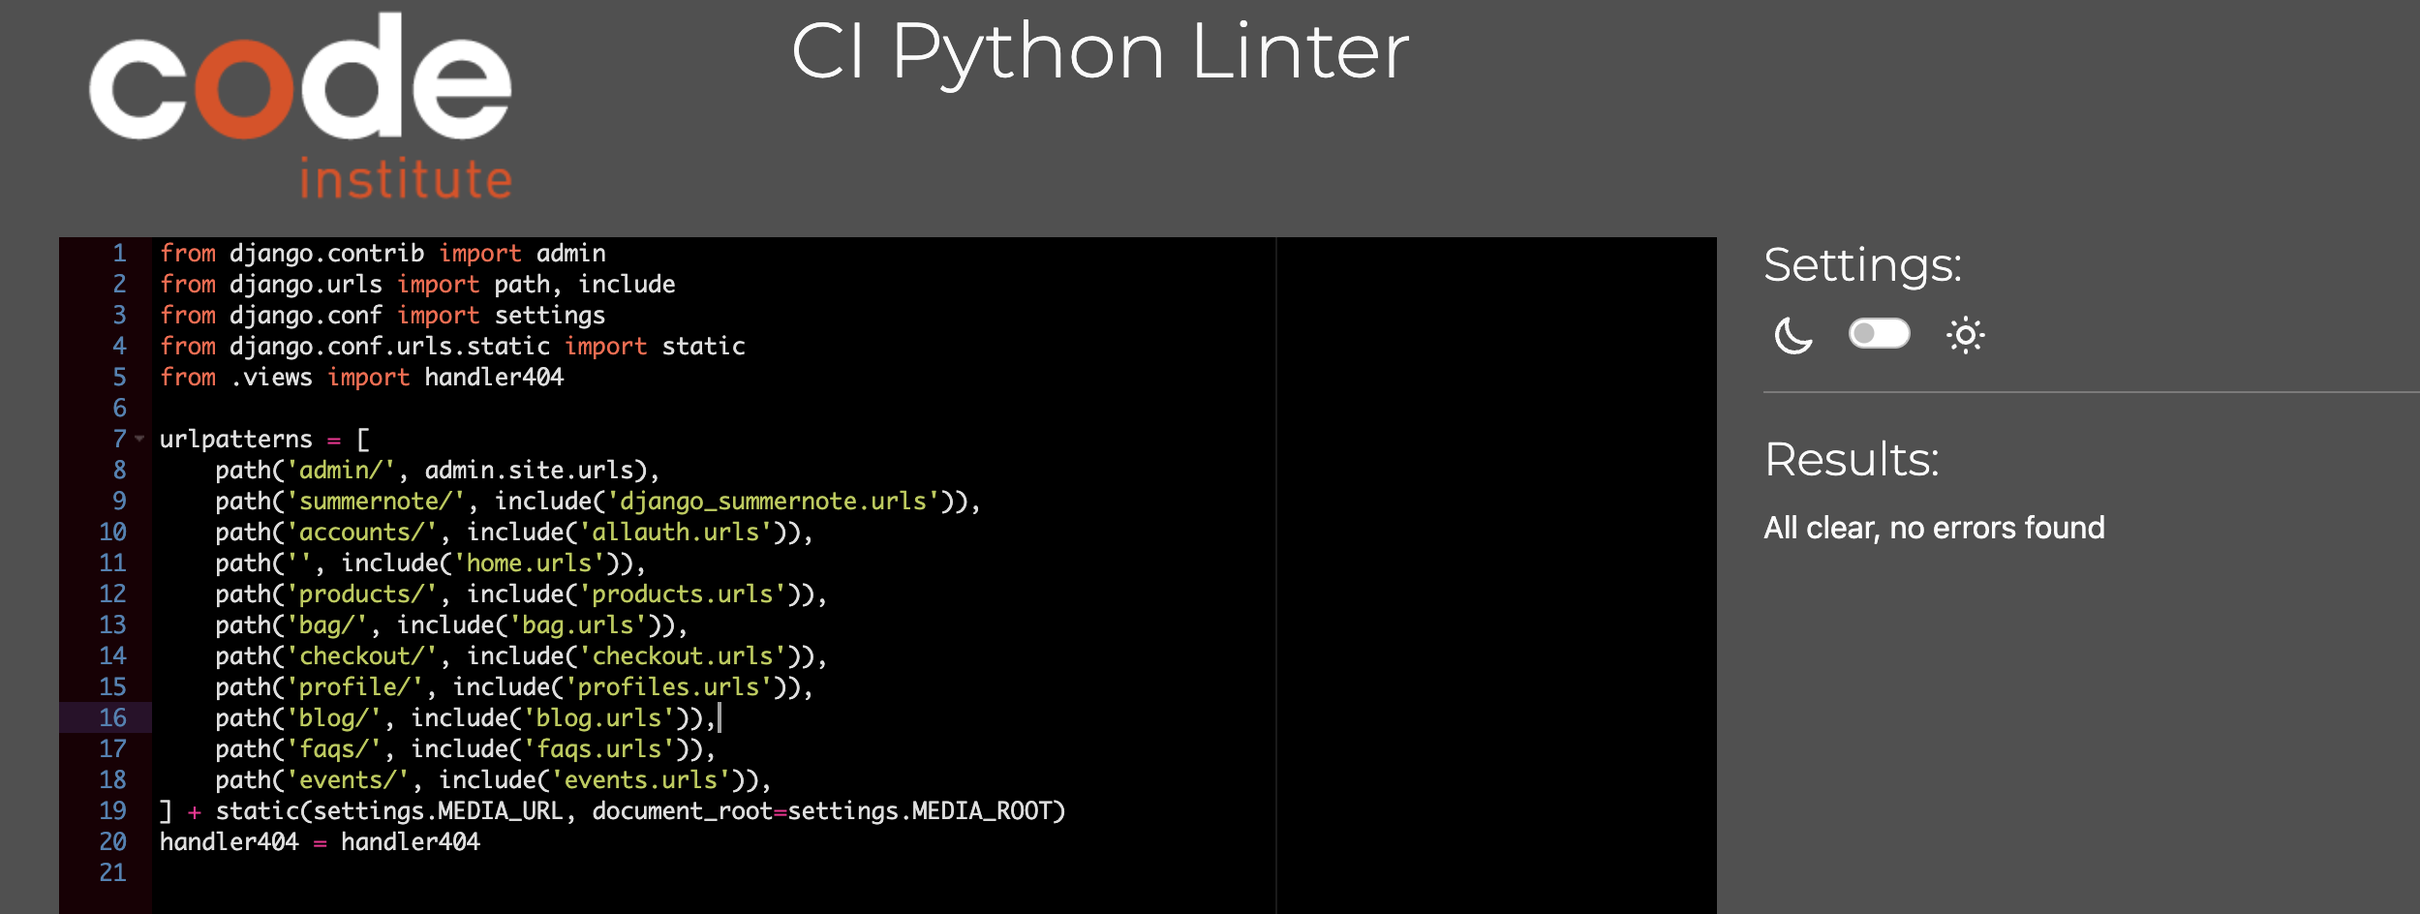
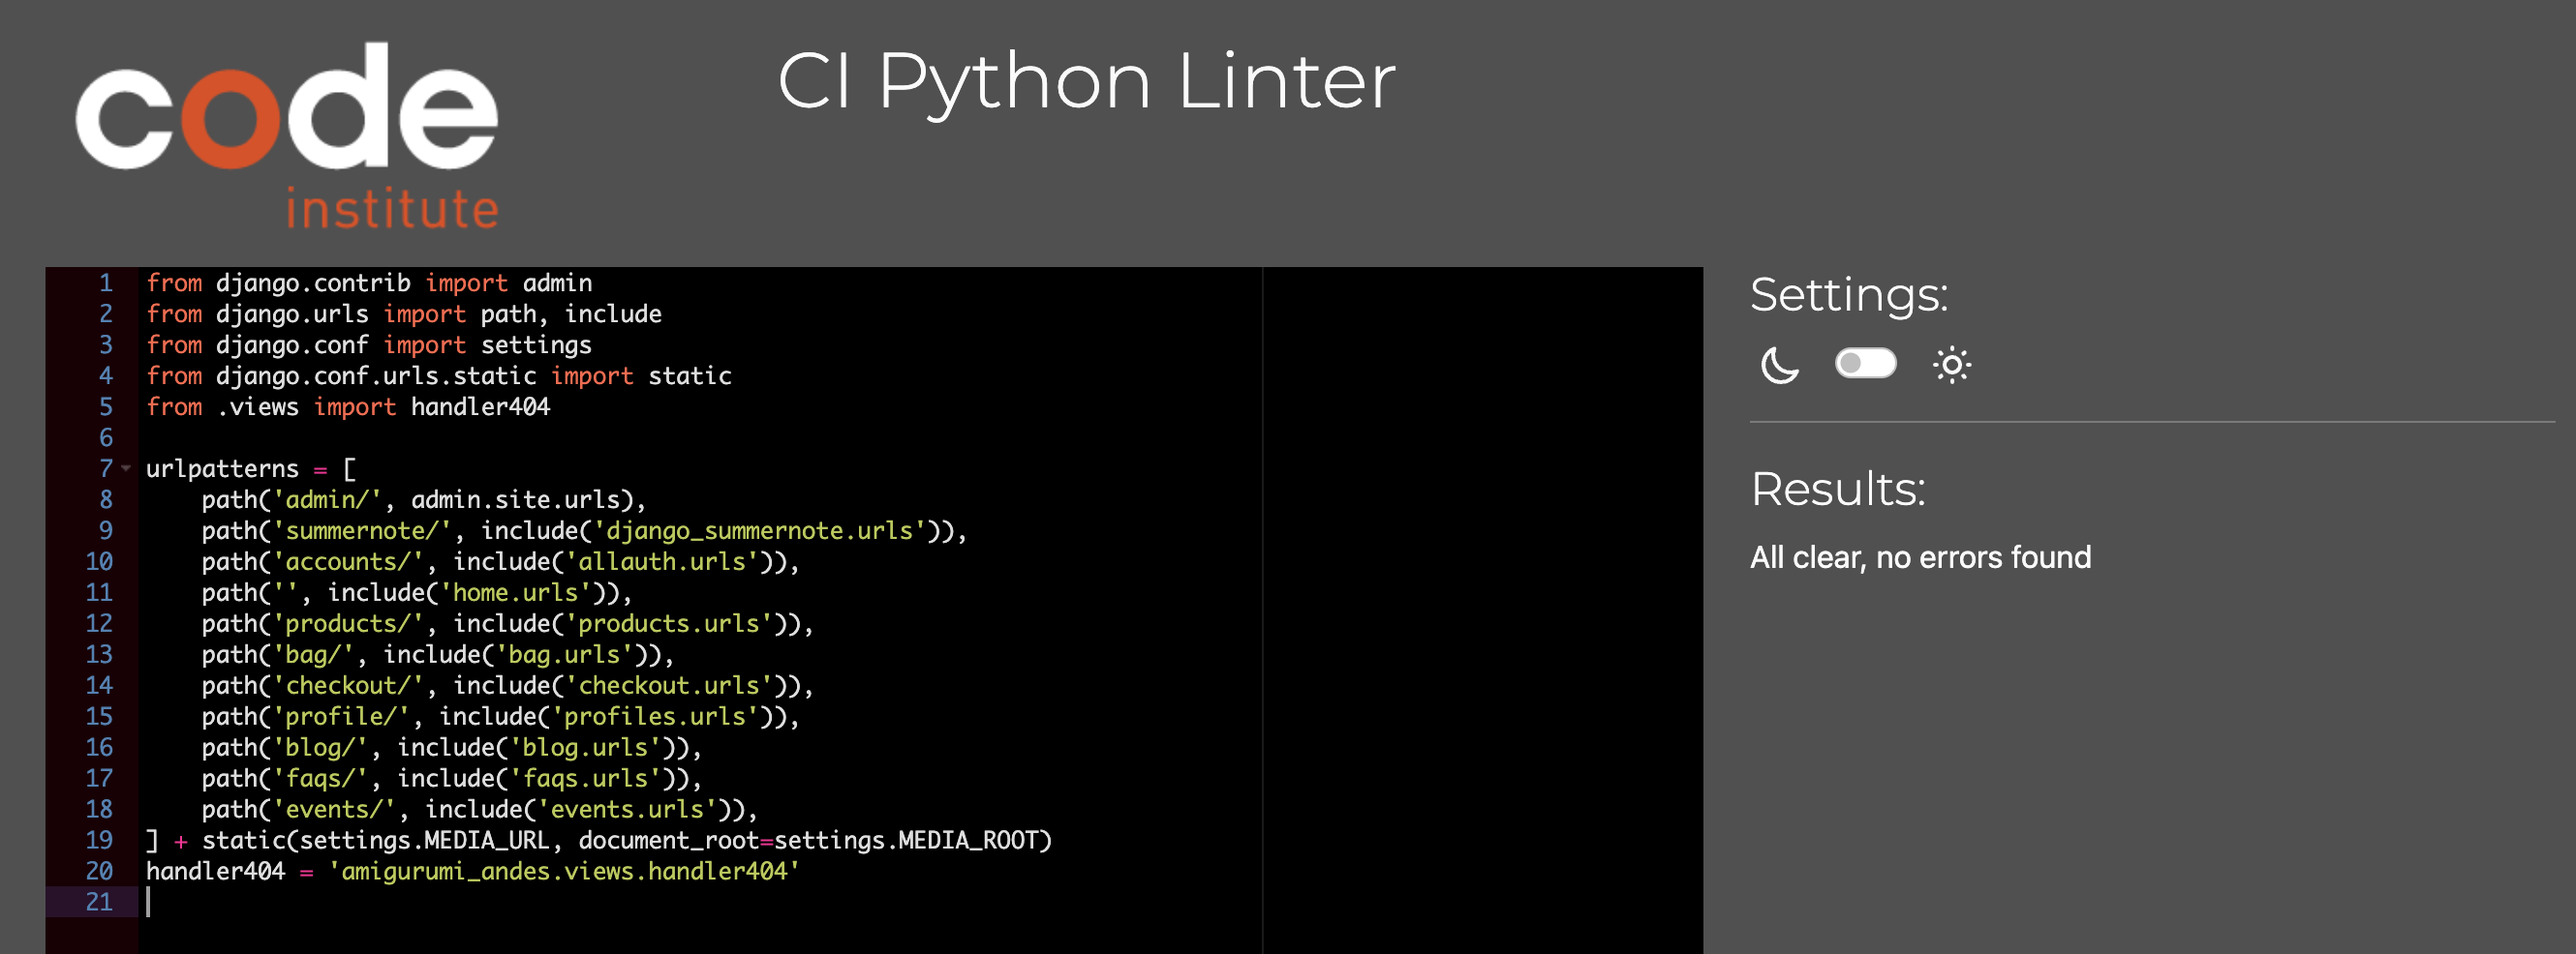
Validate changed pages and fix readme

Changed region(s): [[0.0, 0.0, 0.8739, 1.0], [0.3121, 0.0307, 0.593, 0.1229]]

diff --git a/templates/errors/404.html b/templates/errors/404.html
@@ -36,5 +36,4 @@
         </div>
     </div>
 </div>
-</div>
 {% endblock %}

diff --git a/blog/views.py b/blog/views.py
@@ -39,11 +39,18 @@ class PostCreate(CreateView):
             form.instance.status = 0  # Draft if not superuser
         response = super().form_valid(form)
         if form.instance.status == 1:
-            messages.success(self.request, "You have successfully published the blog post.")
+            messages.success(
+                self.request, "You have successfully published the blog post."
+            )
         elif form.instance.status == 0:
-            messages.success(self.request, "Your blog post is set to draft.")
+            messages.success(
+                self.request, "Your blog post is set to draft."
+            )
         else:
-            messages.success(self.request, "You have created your blog post. It is awaiting approval.")
+            messages.success(
+                self.request,
+                "You have created your blog post. It is awaiting approval."
+            )
         return response
 
 
@@ -59,16 +66,22 @@ class PostUpdate(UserPassesTestMixin, UpdateView):
     def form_valid(self, form):
         response = super().form_valid(form)
         if form.instance.status == 1:
-            messages.success(self.request, "You have updated the blog post to published.")
+            messages.success(
+                self.request, "You have updated the blog post to published."
+            )
         elif form.instance.status == 0:
-            messages.success(self.request, "Your blog post update is set to draft.")
+            messages.success(
+                self.request, "Your blog post update is set to draft."
+            )
         else:
             messages.success(self.request, "You have updated your blog post.")
         return response
 
     def test_func(self):
         post = self.get_object()
-        return self.request.user == post.author or self.request.user.is_superuser
+        return (
+            self.request.user == post.author or self.request.user.is_superuser
+        )
 
 
 @method_decorator(login_required, name='dispatch')
@@ -81,9 +94,13 @@ class PostDelete(UserPassesTestMixin, DeleteView):
 
     def delete(self, request, *args, **kwargs):
         response = super().delete(request, *args, **kwargs)
-        messages.success(request, "You have successfully deleted your blog post.")
+        messages.success(
+            request, "You have successfully deleted your blog post."
+        )
         return response
 
     def test_func(self):
         post = self.get_object()
-        return self.request.user == post.author or self.request.user.is_superuser
+        return (
+            self.request.user == post.author or self.request.user.is_superuser
+        )

diff --git a/checkout/webhook_handler.py b/checkout/webhook_handler.py
@@ -48,12 +48,12 @@ class StripeWH_Handler:
         pid = intent.id
         bag = intent.metadata.bag
         save_info = intent.metadata.save_info
-        
+
         # Get the Charge object
         stripe_charge = stripe.Charge.retrieve(
             intent.latest_charge
             )
-            
+
         billing_details = stripe_charge.billing_details
         shipping_details = intent.shipping
         grand_total = round(stripe_charge.amount / 100, 2)

diff --git a/amigurumi_andes/views.py b/amigurumi_andes/views.py
@@ -1,5 +1,6 @@
 from django.shortcuts import render
 
+
 def handler404(request, exception):
     """ Error Handler 404 - Page Not Found """
     return render(request, "errors/404.html", status=404)

diff --git a/README.md b/README.md
@@ -150,6 +150,9 @@ A system of messages has been implemented to provide feedback for every user's a
 Email confirmations are sent in different occasions: mainly to manage the account registration and also to confirm joining an event. 
 ![Example email](readme_pics/example-email.png)
 
+An email is also sent upon user purchase for confirmation:
+![Example email2](readme_pics/example-email-2.png)
+
 # Database Chart
 
 ![Database 1](readme_pics/database1.png)
@@ -186,31 +189,21 @@ Manual Testing and validation can be found here:
 - The Join event button was causing issues due to the unique_together function used. This prevents a user to sign up for an event more than once. The user can join the event, leave an event and join again, but cannot join more than once if they have already joined and haven't opted out yet. In the beginning, the website was giving an error related to the fact the logged in user could click the "join event" button more than once. To simply fix this issue, I disabled the button once the user has joined (to prevent double click and error).
 - I had issues loading some CSS on the deployed website and also locally. The CSS was loading in different ways in different browsers and in the local and deployed version of the site. I fixed this by cleanening the cache. 
 
-## Unfixed Bugs
-After trying different troubleshooting methods, my 404.html page has still un unfixed bug. The website doesn't find the page and displays a 500 error instead of the 404 page. 
+- After trying different troubleshooting methods, I managed to fix my 404.html page. The page was not found and it created a broken link which was hampering the user experience. A 500 error was previously displayed: 
 
 ![Bug 1](readme_pics/bug1.png)
 ![Bug 2](readme_pics/bug2.png)
 
-These are all the troubleshooting methods I tried:
+Now the 404 page is displaying correctly when a page is not found. I fixed this bug by placing the 404 page in the correct path and thoroughly following the instructions provided by [Code institute](https://learn.codeinstitute.net/courses/course-v1:CodeInstitute+EA101+2/courseware/eb05f06e62c64ac89823cc956fcd8191/0713d55c023943438d418d83caf4171b/) adding a handler404 function, views and urls. handler404 = 'boutique_ado.views.handler404'.
+- Emails where not sent properly upon user purchase. To fix this issue I had to work on the webhook handler. After a Stripe update, the charges attribute is no longer available directly from the payment intent. To get the billing_details I had to update the payment_intent_succeeded method within the StripeWH_Handler class in webhook_handler.py. 
+- I had some issues with defensive design (blog section): any logged in user could edit and delete any blog post by navigating directly to the URL for these, this way users' data is not fully secure in the application. I implemented checks so that only a user who creates a blog post can edit or delete it (or superadmin). I did this by modfying the views and adding the 
+UserPassestestMixin and test_func. This is the result: 
 
-- Only create the 404.html template directly in the main root. Django should be able to automatically use the 404.html template if it is present in the templates directory when a 404 error occurs. There should be no need to configure urls.py or views.py.
-- Code Institute method: I followed the instructions provided by [Code institute](https://learn.codeinstitute.net/courses/course-v1:CodeInstitute+EA101+2/courseware/eb05f06e62c64ac89823cc956fcd8191/0713d55c023943438d418d83caf4171b/) adding a handler404 function, views and urls. handler404 = 'boutique_ado.views.handler404'.
--  I thought it might have been an issue with the favicon, considering the error on console. I thought in the deployed app favicon is throwing 500 error and that error is triggered
-when you type something to URL bar, so it was picking up that 500 error instead of 404. I tried then to add a favicon to my website, but this was not the issue. 
-- I tried to change the urls.py file adding this line to set the default 404 handler to the view in the views.py file:
-"handler404='amigurumi_andes.views.page_not_found'".
-- Instead of having just 'from .views import handler404' in the urls.py file, I changed it to 'from . import views', to try to avoid errors in the import name. 
-- I recreated the 404 file in a different folder (home/templates/home) to see if the location of the template html file was the issue.
-- I tried changing the html of the 404 file to a simple h1 element to see if the HTML of the 404 file was causing the issue.
+![Forbidden 1](readme_pics/forbidden-edit.png)
+![Forbidden 2](readme_pics/forbidden-delete.png)
 
-**None of the above steps have managed to clear the 500 error issue.**
-
-Google Lightouse reports a 500 error with the robots.txt file. The file is present in the root directory of my website. 
-
-- I tried to upload both files to AWS to see if the browser would find the file. 
-
-**None of the above steps have managed to clear the 500 error issue.**
+A forbidden page is given when a logged-in user who hasn't written an article tries to delete or edit it by navigating directly to the URL. 
+- I had a responsiveness issue related to summernote, I manaed to fix it by adding SUMMERNOTE_CONFIG to the settings file. 
 
 # Tools and technologies used
 
@@ -334,6 +327,7 @@ Web Marketing Strategies and SEO documentation can be found here:
 - Bootstrap documentation has been used for different parts of the website, as for example the carousel in the index page.
 - Use of unique_together function for the models of the events app: https://stackoverflow.com/questions/2201598/how-to-define-two-fields-unique-as-couple
 - Use of Hiddeninput for the forms of the event model: https://stackoverflow.com/questions/15795869/django-modelform-to-have-a-hidden-input
+- Use of UserPassestestMixin and test_func: https://docs.djangoproject.com/en/5.0/topics/auth/default/
 - To test Stripe payments: https://docs.stripe.com/testing
 - Help for 404.html page bug: 404: https://www.w3schools.com/django/django_404.php and https://docs.djangoproject.com/en/5.0/ref/views/ 
 - To create a sitemap for SEO: https://www.xml-sitemaps.com/

diff --git a/TESTING.md b/TESTING.md
@@ -90,6 +90,9 @@ An error has been found related to allauth set up.
 
 ![Sign up error](readme_pics/signuptest.png)
 
+- 404 page: 
+No errors found, only one stray div tag which have been fixed.
+
 # CSS
 
 The custom css page has been validated with [W3C Validator](https://jigsaw.w3.org/css-validator/) and no errors were found:
@@ -168,7 +171,7 @@ Some long lines have been left unmodified to preserve the integrity of the code 
 - Views.py:
 ![views py checkout](readme_pics/checkout-views-E.png)
 - Webhook handler.py:
-![webhook handler py checkout](readme_pics/checkout-webh-handler-E.png)
+![webhook handler py checkout](readme_pics/checkout-webh-handler.png)
 - webhook.py:
 ![webhook py checkout](readme_pics/checkout-webh-E.png)
 
